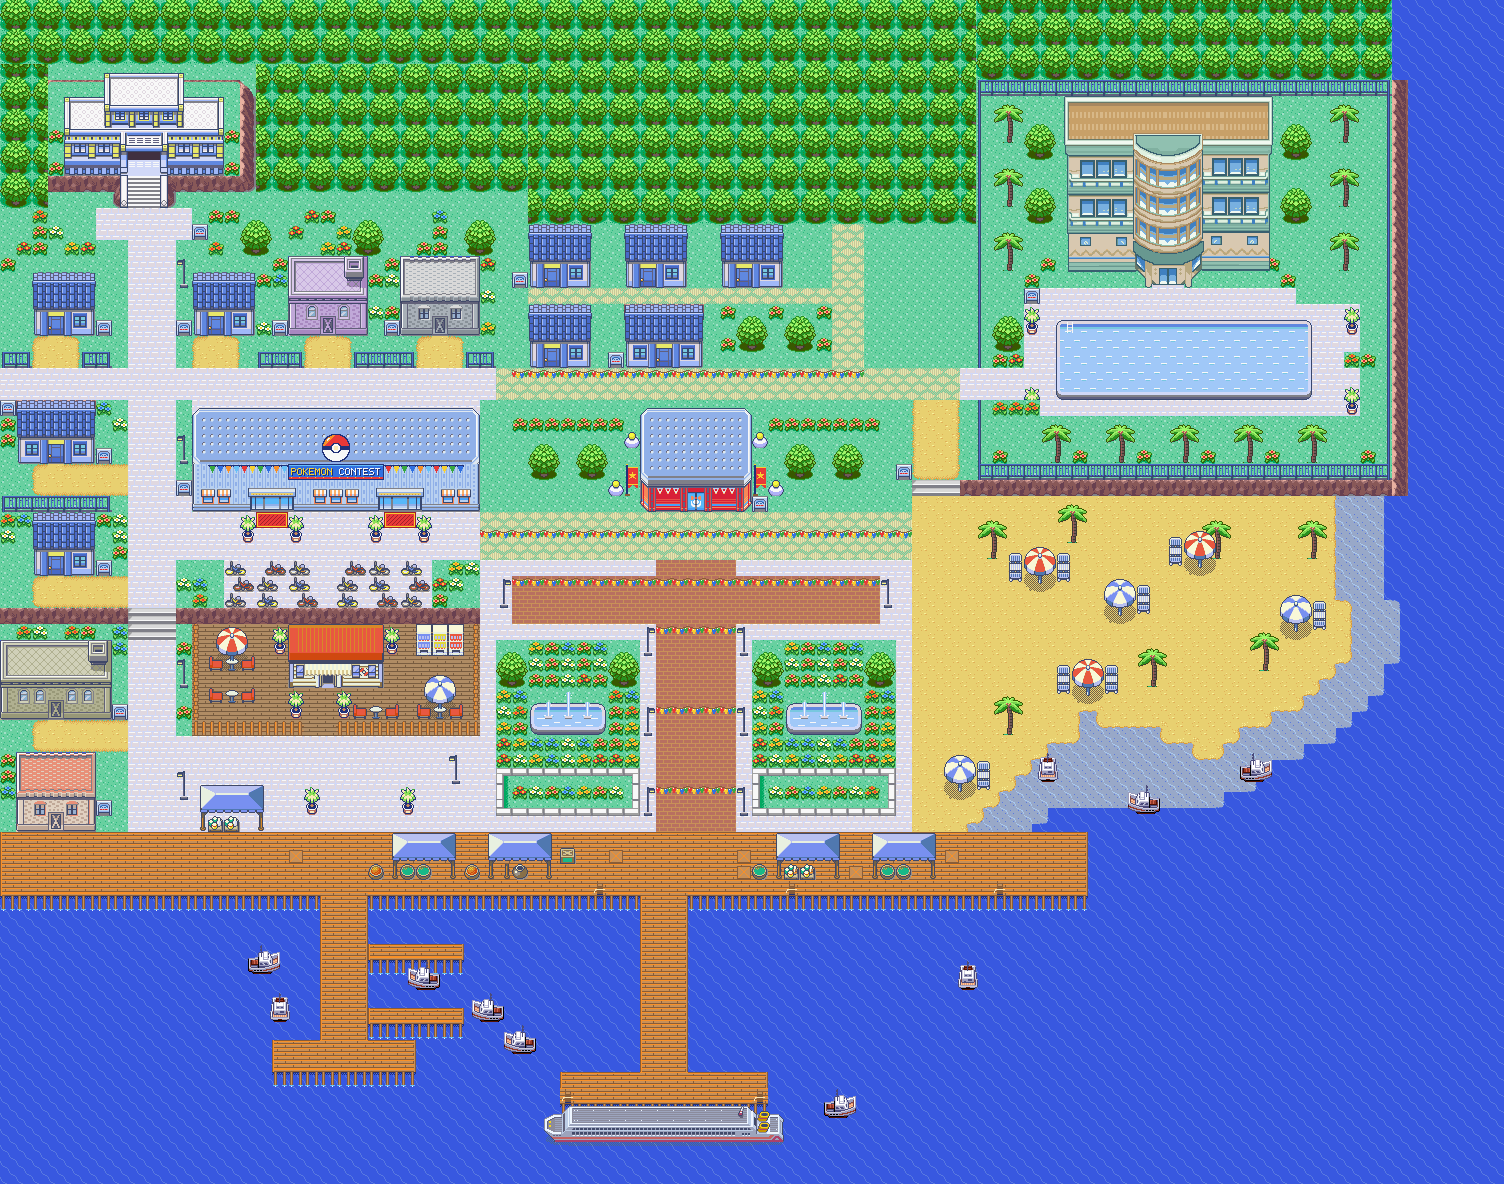
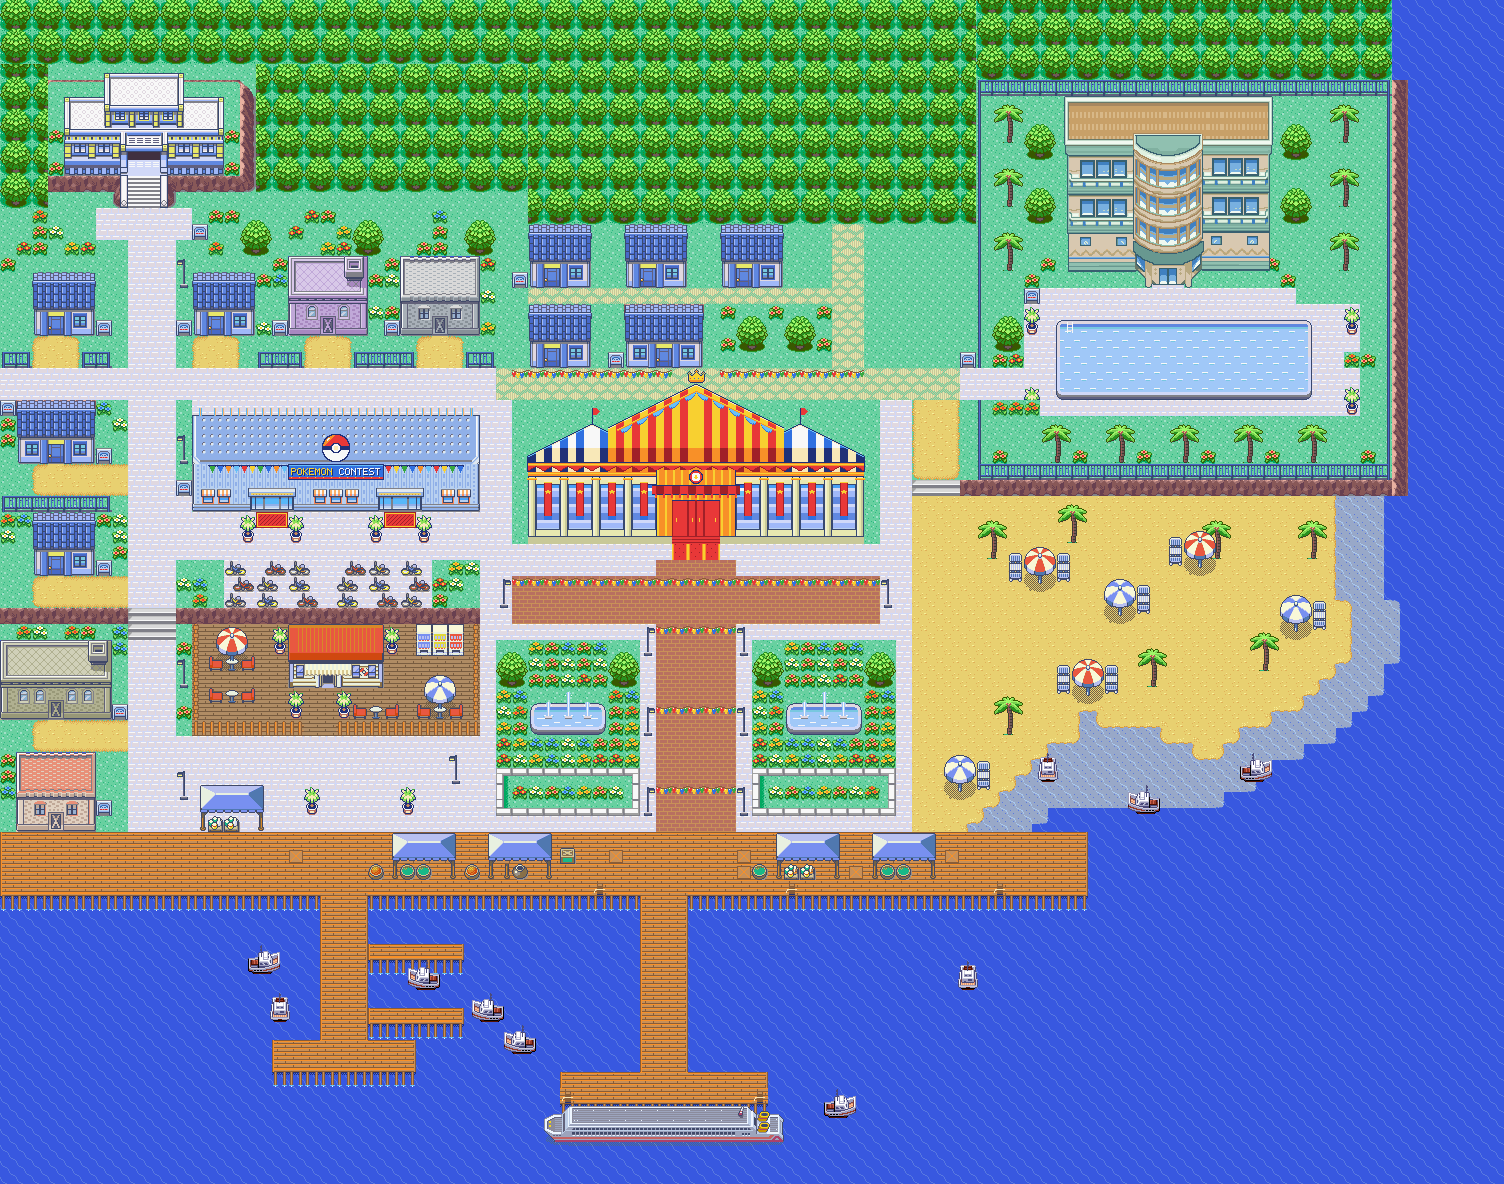
Contest Hall: grand striped big top with crown, colonnade and golden portal
- hall_art.py draws the hall (23x11 metatiles) for the background; multipal.py picks the best of
  palettes 6/7/8/9 per 8x8 tile (no new palette); tile-friendly design (~97 tiles).
- build_city_tileset shares identical metatiles; art() can skip empty cells and use per-row floors.
- Replaces the old hall, its lawns and the avenue segment; side walks, forecourt, red carpet to the
  plaza; three door cells to the lobby; signs and NPCs relocated.

Claude-Session: https://claude.ai/code/session_015nAeBdQj1XXGE9TrWVaT6H

Changed region(s): [[0.125, 0.3125, 0.625, 0.5], [0.625, 0.2812, 0.6562, 0.3125]]

diff --git a/dev_scripts/lilycove_redesign/hall_art.py b/dev_scripts/lilycove_redesign/hall_art.py
@@ -1,0 +1,146 @@
+"""The new Lilycove Contest Hall ("big top") for the background, designed to be cheap in tiles:
+straight 1:2 tent slopes, stripes on a 16 px period centred on the door, repeating bays, and a
+symmetric layout (right half = mirrored left half). Colours from palettes 6 (festival), 7, 8, 9;
+multipal.py converts it per 8x8 tile. Canvas 368 x 176 = 23 x 11 metatiles: the top two rows (the
+centre peak and the crown) hang over the north street; the door is column 11 of the last row."""
+from PIL import Image
+
+WH, CR, YE, OR, RE, DR = (248, 248, 248), (248, 232, 184), (248, 208, 48), (248, 144, 40), (232, 56, 56), (160, 32, 40)
+BR, LB, BL, NV = (184, 112, 96), (104, 192, 248), (48, 112, 224), (32, 48, 120)
+GL1, GL2, GL3, O8 = (208, 216, 248), (160, 184, 248), (96, 136, 224), (56, 72, 112)
+S1, S2, S3, S4, S5, O9 = (240, 240, 208), (232, 232, 176), (200, 200, 152), (168, 160, 128), (136, 136, 88), (56, 72, 112)
+
+W, H = 368, 176
+CX = 184
+BODY_BOTTOM = 104            # valance bottom
+FACADE_TOP = 104
+
+def build():
+    im = Image.new('RGBA', (W, H), (0, 0, 0, 0)); p = im.load()
+    def put(x, y, c):
+        if 0 <= x < W and 0 <= y < H: p[x, y] = c + (255,)
+    def get(x, y): return p[x, y][:3] if 0 <= x < W and 0 <= y < H and p[x, y][3] else None
+
+    def stripe_on(x, cx):                    # symmetric 8 px stripes around cx
+        return (((x - cx) // 8) % 2 == 0) if x >= cx else (((cx - 1 - x) // 8) % 2 == 0)
+
+    def tent(x0, x1, peak, colours, light_rows):
+        a, b, sa, sb = colours; cx = (x0 + x1) // 2
+        for x in range(x0, x1):
+            top = peak + abs(x + 0.5 - cx) // 2 * 1     # slope 1:2
+            top = int(peak + (abs(x - cx + 0.5) - 0.5) // 2)
+            for y in range(top, BODY_BOTTOM):
+                on = stripe_on(x, cx)
+                c = a if on else b
+                if y >= BODY_BOTTOM - 24: c = sa if on else sb                # shade band
+                if y < top + light_rows: c = CR if on else (LB if b == BL else OR)   # sunlit rim
+                put(x, y, c)
+            put(x, top, NV)
+    # side tents first (behind), then the big centre tent
+    tent(16, 144, 56, (WH, BL, CR, NV), 2)
+    tent(224, 352, 56, (WH, BL, CR, NV), 2)
+    tent(96, 272, 16, (YE, RE, OR, DR), 2)
+    # sides of the canopy
+    for y in range(88, BODY_BOTTOM):
+        put(15, y, NV); put(352, y, NV)
+    # golden ropes with blue drapes from the crown down to the shoulders of the centre tent
+    for side in (-1, 1):
+        for k in range(0, 80):
+            x = CX + side * k; y = 16 + k // 2 + 6
+            put(x, y, YE); put(x, y + 1, OR)
+            if k % 16 < 12:                                           # drapes hanging from the rope
+                depth = [0, 2, 3, 4, 4, 5, 5, 5, 5, 4, 4, 3][k % 16]
+                for d in range(2, 2 + depth): put(x, y + d, BL if d > 2 + depth - 2 else LB)
+    # valance: gold band + red scallops, 16 px period, across the whole canopy
+    for x in range(16, 352):
+        put(x, BODY_BOTTOM - 10, NV)
+        for y in range(BODY_BOTTOM - 9, BODY_BOTTOM - 6): put(x, y, YE if y == BODY_BOTTOM - 8 else OR)
+        u = (x - CX) % 16
+        depth = int(5 - abs(u - 7.5) * 0.6)
+        for y in range(BODY_BOTTOM - 6, BODY_BOTTOM - 6 + depth + 1): put(x, y, RE if y < BODY_BOTTOM - 6 + depth else DR)
+    # crown on the top of the centre peak (rows 0..16)
+    crown = [
+        "..........y..........",
+        ".........yRy.........",
+        "...y......y......y...",
+        "..yBy....yyy....yBy..",
+        "...y....yyyyy....y...",
+        "...yy..yyyyyyy..yy...",
+        "...yyyyyyyyyyyyyyy...",
+        "...yyyyyyyyyyyyyyy...",
+        "...yRyyyByyyByyyRy...",
+        "...yyyyyyyyyyyyyyy...",
+        "...ooooooooooooooo...",
+        "....ooooooooooooo....",
+    ]
+    for j, row in enumerate(crown):
+        for i, ch in enumerate(row):
+            c = {'y': YE, 'o': OR, 'R': RE, 'B': BL}.get(ch)
+            if c: put(CX - 10 + i, 2 + j, c)
+    snap = [[get(x, y) for x in range(W)] for y in range(16)]
+    for y in range(16):                                       # outline the crown
+        for x in range(CX - 14, CX + 14):
+            if snap[y][x] is None and any(0 <= y + b < 16 and snap[y + b][x + a] for a, b in ((1, 0), (-1, 0), (0, 1), (0, -1))):
+                put(x, y, NV)
+    # flags on the side peaks
+    for fx in (80, 288):
+        for y in range(40, 56): put(fx, y, NV)
+        for y in range(40, 47):
+            for x in range(fx + 1, fx + 1 + (7 - abs(y - 43)) ): put(x, y, RE)
+
+    # ---------- facade (symmetric) ----------
+    for x in range(16, 352):
+        for y in range(FACADE_TOP, H): put(x, y, S2)
+    for x in range(16, 352):
+        for y in range(FACADE_TOP, FACADE_TOP + 4): put(x, y, YE if y == FACADE_TOP + 1 else OR)   # gold cornice
+        put(x, FACADE_TOP + 4, NV)
+        for y in range(H - 8, H): put(x, y, S3 if y > H - 8 else O9)                               # plinth
+    for bx in list(range(16, CX - 40, 32)) + [2 * CX - 8 - b for b in range(16, CX - 40, 32)]:
+        for y in range(FACADE_TOP + 5, H - 8):                                                    # column
+            for dx in range(8):
+                put(bx + dx, y, O9 if dx in (0, 7) else (S1 if dx in (1, 2) else (S3 if dx in (5, 6) else S2)))
+        for dx in range(-1, 9): put(bx + dx, FACADE_TOP + 6, YE); put(bx + dx, FACADE_TOP + 7, OR)    # gold capital
+    for wx in list(range(24, CX - 40, 32)) + [2 * CX - 24 - w for w in range(24, CX - 40, 32)]:
+        if wx + 24 > CX - 40 and wx < CX: continue
+        if wx < CX + 40 and wx + 24 > CX: continue
+        for y in range(FACADE_TOP + 12, H - 14):                                                  # tall window
+            for x in range(wx, wx + 24):
+                edge = x in (wx, wx + 23) or y in (FACADE_TOP + 12, H - 15)
+                put(x, y, O8 if edge else (GL1 if (y - FACADE_TOP) % 16 < 3 else (GL2 if (y - FACADE_TOP) % 16 < 9 else GL3)))
+        for y in range(FACADE_TOP + 10, FACADE_TOP + 44):                                         # contest banner
+            for x in range(wx + 8, wx + 16):
+                put(x, y, YE if y == FACADE_TOP + 10 else (DR if x in (wx + 8, wx + 15) else RE))
+        for (sx, sy) in ((3, 8), (4, 8), (1, 9), (2, 9), (3, 9), (4, 9), (5, 9), (6, 9), (2, 10), (3, 10), (4, 10), (5, 10), (2, 11), (5, 11)):
+            put(wx + 8 + sx, FACADE_TOP + 10 + sy, YE)
+    # ---------- grand entrance ----------
+    ex0, ex1 = CX - 40, CX + 40
+    for y in range(FACADE_TOP - 2, H - 8):                     # gold portal
+        for x in range(ex0, ex1):
+            put(x, y, YE if (x - ex0) % 8 in (1, 2) else OR)
+        put(ex0, y, NV); put(ex1 - 1, y, NV)
+    for x in range(ex0 - 4, ex1 + 4):                          # red canopy over the door
+        for y in range(FACADE_TOP + 14, FACADE_TOP + 22):
+            put(x, y, RE if (x - CX) % 16 < 8 else DR)
+        put(x, FACADE_TOP + 13, NV); put(x, FACADE_TOP + 22, NV)
+    for x in range(ex0 - 4, ex1 + 4, 8):
+        for y in range(FACADE_TOP + 22, FACADE_TOP + 26): put(x + 3, y, RE); put(x + 4, y, RE)
+    # star crest on the portal
+    for y in range(FACADE_TOP - 2, FACADE_TOP + 12):
+        for x in range(CX - 8, CX + 8):
+            d = ((x + 0.5 - CX) ** 2 + (y + 0.5 - FACADE_TOP - 5) ** 2) ** 0.5
+            if d < 7: put(x, y, NV if d > 6 else (RE if d > 4.5 else WH))
+    for (sx, sy) in ((0, -2), (-1, -1), (0, -1), (-2, 0), (-1, 0), (0, 0), (1, 0), (-1, 1), (0, 1)):
+        put(CX + sx, FACADE_TOP + 5 + sy, YE); put(CX - 1 - sx, FACADE_TOP + 5 + sy, YE)
+    # red double doors with gold handles
+    dy0 = FACADE_TOP + 28
+    for y in range(dy0, H - 8):
+        for x in range(CX - 24, CX + 24):
+            c = RE if (x - CX + 24) % 16 not in (0, 15) else DR
+            if y == dy0: c = NV
+            put(x, y, c)
+        put(CX - 1, y, DR); put(CX, y, DR)
+    for x in (CX - 4, CX + 3, CX - 20, CX + 19):
+        for y in range(dy0 + 18, dy0 + 22): put(x, y, YE)
+    for y in range(H - 8, H):                                  # steps with the red carpet
+        for x in range(CX - 24, CX + 24): put(x, y, RE if y % 3 else DR)
+    return im

diff --git a/dev_scripts/lilycove_redesign/layout.py b/dev_scripts/lilycove_redesign/layout.py
@@ -23,10 +23,7 @@ path(2,11,51,13)
 # ================= MIDDLE BAND (y13-19) =================
 pc(3,14); house(9,14)                        # doors (4,17) (10,17)
 flowers(7,14,9,18); path(3,18,14,20)
-contest(24,13)                               # door (27,19)
-flowers(16,14,23,15); flowers(32,14,39,15)
-tree1(17,15); tree1(20,15); tree1(33,15); tree1(36,15)
-lamp(22,18); lamp(32,18); lamp(23,15); lamp(31,15)
+# (the Contest Hall is drawn at the end, see CONTEST HALL)
 
 motel(41,13)                                 # door (42,17)
 pond(47,14); fence(46,51,16); flowers(46,17,51,18)
@@ -70,10 +67,9 @@ trees(0,24,2,40);
 for x in (3,): put(x,37,T(0x005,1,0))
 # central fountain on main axis
 # sign posts for bg_events
-for sx,sy in [(10,10),(47,9),(2,19),(31,19),(40,17),(3,31),(22,10),(16,5)]: sign(sx,sy)
+for sx,sy in [(10,10),(47,9),(2,19),(40,17),(3,31),(22,10),(16,5)]: sign(sx,sy)
 
 # ================= FESTIVAL DRESSING (World Contest Season) =================
-for bx,blue in ((23,False),(31,True)): banner(bx,17,'grass',blue)
 bunting(2,46,21)                                   # across the avenue
 bunting(2,14,38)                                   # promenade (west part)
 bunting(16,38,11)                                  # north street
@@ -387,3 +383,16 @@ for (px_, py_) in ((45, 20), (50, 19), (59, 20), (46, 31), (55, 28), (65, 20), (
 decor('beach_set_red', 47, 22, walk_rows=1); decor('beach_set_blue', 53, 24, walk_rows=1)
 decor('beach_set_red_l', 57, 21, walk_rows=1); decor('beach_set_red', 50, 29, walk_rows=1)
 decor('beach_set_blue', 43, 35, walk_rows=1); decor('beach_set_blue', 64, 25, walk_rows=1)
+
+# ================= CONTEST HALL: the city's grand "big top" (hall_art.py, multi-palette background) ======
+# 23 x 11 metatiles at x 16..38, rows 11..21; the centre peak and the crown (rows 11..12) hang over the
+# north street (walk behind them). It replaces the old hall, its lawns and the avenue in front of it.
+fill(14, 13, 41, 22, GRASS)
+paving(14, 13, 16, 22); paving(39, 13, 41, 22)               # side walks: north street <-> forecourt
+paving(14, 22, 41, 23)                                       # forecourt along the facade
+art('contest_hall', 16, 11, bottom='grass', walk_rows=2, skip_empty=True, row_bottoms={0: 'cobble', 1: 'cobble'})
+for dx_ in (10, 11, 12):                                     # the three door cells of the golden portal
+    _port_art.DOOR_KEYS.add(("contest_hall", dx_, 10, None, "grass"))
+    put(16 + dx_, 21, ('ART', ('contest_hall', dx_, 10, None, 'grass'), 0, 3))
+for x in (26, 27, 28): put(x, 22, T(F['carpet']))            # red carpet down to the plaza's brick axis
+sign(44, 10)                                                 # beach / hotel sign at the top of the sand road

diff --git a/dev_scripts/lilycove_redesign/build_city_tileset.py b/dev_scripts/lilycove_redesign/build_city_tileset.py
@@ -71,6 +71,7 @@ def build(M, festival_ids):
         'dock': metas[festival_ids['dock'] - 512][:4],
         'brick': metas[festival_ids['brick'] - 512][:4],
         'grass': pmeta(0x001)[:4],
+        'cobble': metas[0x233 - 512][:4],
         'sand': pmeta(0x124)[:4],
     }
     used = {v & 0x3ff for row in M for v in row if isinstance(v, int) and (v & 0x3ff) >= 512} | set(DOORS)
@@ -125,6 +126,7 @@ def build(M, festival_ids):
         return tile_index[k]
     keys = sorted({v[1] for row in M for v in row if isinstance(v, tuple)}, key=lambda k: (k[0] not in port_art.FLOOR, str(k)))
     prim_ids = []
+    meta_by_sig = {}
     for key in keys:
         name, mx, my, pal, bottom = key
         pal = port_art.PAL_OF.get(name, 0)
@@ -137,9 +139,11 @@ def build(M, festival_ids):
           if name not in canvases: canvases[name] = port_art.ART[name]()
           prim = name in PRIMARY_ART
           top = []
-          for q in _split16(canvases[name], mx, my):
+          tp = port_art.TILEPAL.get(name)
+          for qi, q in enumerate(_split16(canvases[name], mx, my)):
             t = add_ptile(q) if prim else add_tile(q)
-            top.append(t | (pal << 12) if t else 0)
+            pq = tp[my * 2 + qi // 2][mx * 2 + qi % 2] if tp else pal
+            top.append(t | (pq << 12) if t else 0)
         if isinstance(bottom, str) and bottom.startswith('top:'):     # another metatile's top layer as the floor
             BOTTOM[bottom] = metas[int(bottom[4:], 16) - 512][4:]
         entries = top + [0] * 4 if name in port_art.FLOOR else BOTTOM[bottom] + top
@@ -148,9 +152,14 @@ def build(M, festival_ids):
             if not pmeta_pool: raise SystemExit('primary tileset: out of free metatiles')
             mid = pmeta_pool.pop(0); pmetas[mid] = entries; pattrs[mid] = 0; prim_ids.append(mid)
         else:
-            if not free_meta: raise SystemExit('out of metatiles for port art')
-            mid = free_meta.pop(0)
-            new_metas[mid] = entries; new_attrs[mid] = 0
+            attr = 0x0060 if key in port_art.DOOR_KEYS else 0
+            sig = (tuple(entries), attr)
+            if sig in meta_by_sig:                  # identical metatile already made: share it
+                mid = meta_by_sig[sig]
+            else:
+                if not free_meta: raise SystemExit('out of metatiles for port art')
+                mid = free_meta.pop(0); meta_by_sig[sig] = mid
+                new_metas[mid] = entries; new_attrs[mid] = attr
         art_ids[key] = mid
     # resolve placeholders
     out = [[(art_ids[v[1]] | (v[2] << 10) | (v[3] << 12)) if isinstance(v, tuple) else v for v in row] for row in M]

diff --git a/dev_scripts/lilycove_redesign/multipal.py b/dev_scripts/lilycove_redesign/multipal.py
@@ -1,0 +1,43 @@
+"""Converts an RGBA image to background tiles that may use a DIFFERENT palette per 8x8 tile
+(chosen among `slots` by least colour error). Returns (index canvas, per-tile palette grid)."""
+import render
+_PALS = {}
+def pal(slot):
+    if slot not in _PALS:
+        base = 'primary/general' if slot < 6 else 'secondary/lilycove_city'
+        _PALS[slot] = render.pal(render.R + base + '/palettes/%02d.pal' % slot)
+    return _PALS[slot]
+def convert(img, slots=(6, 7, 8, 9)):
+    W, H = img.size; px = img.load()
+    canvas = [[0] * W for _ in range(H)]; grid = [[0] * (W // 8) for _ in range(H // 8)]
+    for ty in range(H // 8):
+        for tx in range(W // 8):
+            cols = [px[tx * 8 + x, ty * 8 + y] for y in range(8) for x in range(8)]
+            if not any(c[3] for c in cols): continue
+            best = None
+            for s in slots:
+                P = pal(s); err = 0; idx = []
+                for c in cols:
+                    if not c[3]: idx.append(0); continue
+                    i = min(range(1, 16), key=lambda k: sum((a - b) ** 2 for a, b in zip(P[k], c[:3])))
+                    err += sum((a - b) ** 2 for a, b in zip(P[i], c[:3])); idx.append(i)
+                if best is None or err < best[0]: best = (err, s, idx)
+            grid[ty][tx] = best[1]
+            for k, i in enumerate(best[2]): canvas[ty * 8 + k // 8][tx * 8 + k % 8] = i
+    return canvas, grid
+def unique_tiles(canvas, grid):
+    s = set(); H, W = len(canvas), len(canvas[0])
+    for ty in range(H // 8):
+        for tx in range(W // 8):
+            t = tuple(tuple(canvas[ty * 8 + y][tx * 8: tx * 8 + 8]) for y in range(8))
+            if not any(any(r) for r in t): continue
+            h = tuple(r[::-1] for r in t); v = t[::-1]; hv = tuple(r[::-1] for r in v)
+            s.add(min(t, h, v, hv))
+    return len(s)
+def preview(canvas, grid):
+    from PIL import Image
+    H, W = len(canvas), len(canvas[0]); im = Image.new('RGBA', (W, H), (0, 0, 0, 0))
+    for y in range(H):
+        for x in range(W):
+            if canvas[y][x]: im.putpixel((x, y), tuple(pal(grid[y // 8][x // 8])[canvas[y][x]]) + (255,))
+    return im

diff --git a/dev_scripts/lilycove_redesign/compose.py b/dev_scripts/lilycove_redesign/compose.py
@@ -99,14 +99,17 @@ def bunting(x0,x1,y,under='cobble'):
 # ---------------- port art (resolved by build_city_tileset.py) ----------------
 import port_art as _pa
 _ART_SIZE={}
-def art(name,x,y,pal=None,bottom='water',walk_rows=0):
+def art(name,x,y,pal=None,bottom='water',walk_rows=0,skip_empty=False,row_bottoms=None):
     if name not in _ART_SIZE:
         c=_pa.ART[name](); _ART_SIZE[name]=(len(c[0])//16,len(c)//16)
     w,h=_ART_SIZE[name]
+    cv=_pa.ART[name]() if skip_empty else None
     for my in range(h):
         for mx in range(w):
+            if skip_empty and not any(cv[my*16+yy][mx*16+xx] for yy in range(16) for xx in range(16)): continue
             walk = my<walk_rows
-            put(x+mx,y+my,('ART',(name,mx,my,pal,bottom),0 if walk else 1,3 if walk else 0))
+            bt = row_bottoms.get(my,bottom) if row_bottoms else bottom
+            put(x+mx,y+my,('ART',(name,mx,my,pal,bt),0 if walk else 1,3 if walk else 0))
 
 def paving(x0,y0,x1,y1):
     for y in range(y0,y1):

diff --git a/dev_scripts/lilycove_redesign/port_art.py b/dev_scripts/lilycove_redesign/port_art.py
@@ -250,3 +250,11 @@ def chunk_art(sub):
 # ---- coconut palm in Emerald's tree palette (primary slot 2) ----
 import veg_art as _V
 _CANVAS['palm_e'] = _V.palm(); PAL_OF['palm_e'] = _V.PAL_SLOT; ART['palm_e'] = lambda: _CANVAS['palm_e']
+
+# ---- multi-palette background art (palette chosen per 8x8 tile, see multipal.py) ----
+TILEPAL = {}
+import multipal as _MP, hall_art as _HA
+_hc, _hg = _MP.convert(_HA.build(), slots=(6, 7, 8, 9))
+_CANVAS['contest_hall'] = _hc; TILEPAL['contest_hall'] = _hg; PAL_OF['contest_hall'] = 6
+ART['contest_hall'] = lambda: _CANVAS['contest_hall']
+DOOR_KEYS = set()          # art cells that behave as non-animated doors (filled by layout)

diff --git a/docs/lilycove/README.md b/docs/lilycove/README.md
@@ -119,6 +119,21 @@ gerado por `build_city_tileset.py`. Ele mantém os ids de metatile que a cidade 
 (as animações de porta continuam funcionando) e reaproveita o espaço que só servia à
 Rota 121 e ao Safari. Tiles iguais ou espelhados são reaproveitados (espaço livre: ver abaixo).
 
+## Centro de Concursos (a "grande tenda")
+* Prédio principal da cidade, 23×11 tiles, no eixo da praça. Desenhado em `hall_art.py`:
+  tenda central listrada em vermelho e amarelo com **coroa dourada** no topo, cordas douradas com
+  drapeados azuis, duas tendas laterais azul e branco com bandeirinhas, **sanefa dourada com
+  babados vermelhos**, festões azuis, **colunata** de pedra com capitéis dourados, vitrais com
+  **estandartes do concurso** e um **pórtico dourado** com marquise vermelha, brasão de estrela e
+  porta dupla vermelha. A ponta da tenda e a coroa avançam sobre a rua norte (passa-se por trás).
+* Cenário (não sprite), sem paleta nova: `multipal.py` escolhe para cada bloco 8×8 a melhor entre
+  as paletas 6 (festival), 7 (dourado), 8 (vidro) e 9 (pedra). Desenho pensado para repetir na
+  grade (listras de 16 px, inclinações 1:2, colunata e lado direito espelhado): ~97 tiles.
+* Metatiles idênticos agora são compartilhados pelo gerador (o Centro reaproveita boa parte).
+* Substitui o prédio antigo, os jardins do quarteirão e o trecho da avenida em frente; calçadas
+  laterais ligam a rua norte ao pátio, e o tapete vermelho desce até o braço de tijolos da praça.
+* Porta: três tiles de porta no pórtico levam ao saguão; o comercial da abertura mostra a nova fachada.
+
 ## Hotel Cove Lily
 * **Prédio** montado a partir do exemplo do usuário (`hotel_ref.png`): telhado de deck, duas alas
   com janelões e base com friso, torre central de vidro curvo e entrada com porta dupla. Limpeza em
